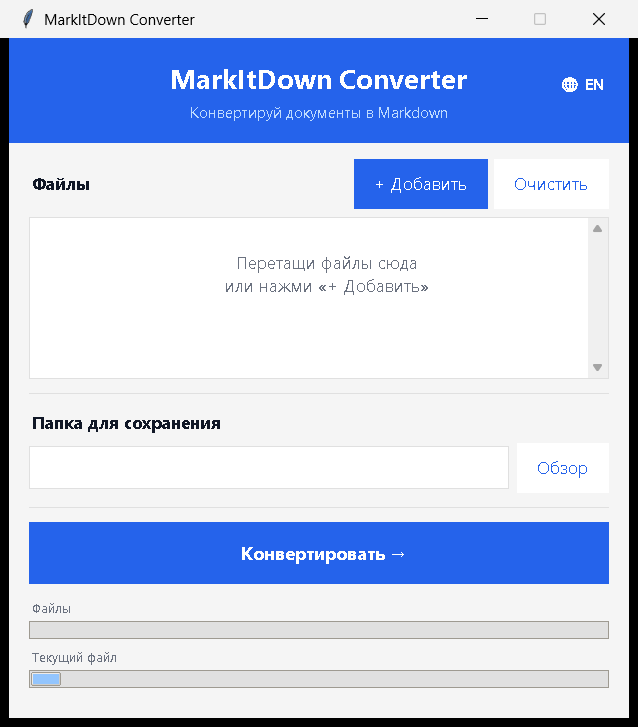
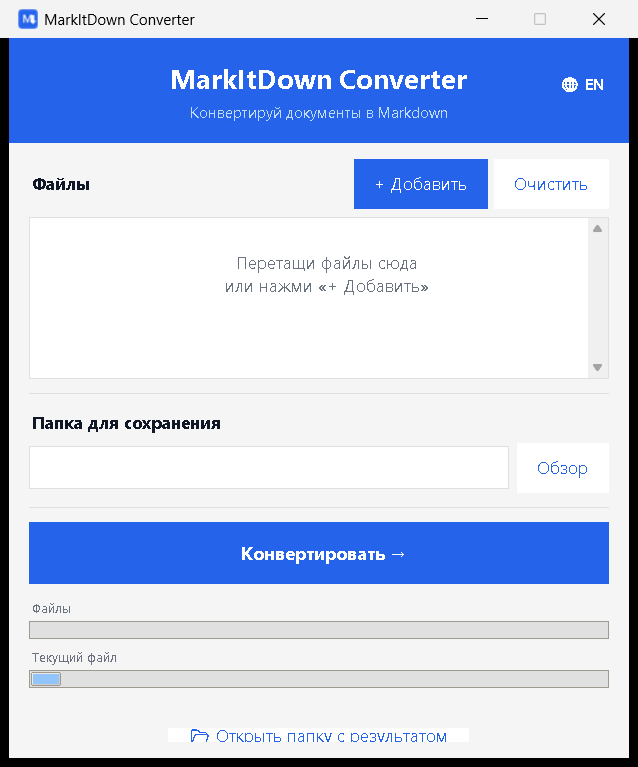
feat: иконка приложения + кнопка «Открыть папку с результатом» + запоминание папки
- assets/icon.ico (стиль Markdown «M↓»), подключена к .exe и окну
- кнопка открытия папки результата (os.startfile)
- последняя выбранная папка и язык сохраняются в ~/.markitdown_converter.json
- build-скрипты собирают с иконкой; обновлён скриншот в README

diff --git a/src/app.py b/src/app.py
@@ -77,6 +77,7 @@ TR = {
         "ft_supported":  "Поддерживаемые файлы",
         "ft_all":        "Все файлы",
         "lang_btn":      "EN",
+        "open_folder":   "📂 Открыть папку с результатом",
     },
     "en": {
         "subtitle":      "Convert documents to Markdown",
@@ -101,30 +102,49 @@ TR = {
         "ft_supported":  "Supported files",
         "ft_all":        "All files",
         "lang_btn":      "RU",
+        "open_folder":   "📂 Open output folder",
     },
 }
 
 CONFIG_PATH = Path.home() / ".markitdown_converter.json"
 
 
-def load_lang() -> str:
+def load_config() -> dict:
     try:
-        lang = json.loads(CONFIG_PATH.read_text(encoding="utf-8")).get("lang")
-        if lang in TR:
-            return lang
+        d = json.loads(CONFIG_PATH.read_text(encoding="utf-8"))
+        return d if isinstance(d, dict) else {}
+    except Exception:
+        return {}
+
+
+_CFG = load_config()
+
+
+def save_config() -> None:
+    """Сохранить язык и последнюю выбранную папку между запусками."""
+    try:
+        data = {"lang": LANG}
+        try:
+            data["out"] = output_var.get()
+        except Exception:
+            pass
+        CONFIG_PATH.write_text(json.dumps(data), encoding="utf-8")
     except Exception:
         pass
-    return "ru"
 
 
-def save_lang() -> None:
-    try:
-        CONFIG_PATH.write_text(json.dumps({"lang": LANG}), encoding="utf-8")
-    except Exception:
-        pass
+def icon_path():
+    """Путь к иконке — работает и из исходников, и из PyInstaller-сборки."""
+    if hasattr(sys, "_MEIPASS"):
+        p = os.path.join(sys._MEIPASS, "icon.ico")
+    elif "__file__" in globals():
+        p = os.path.join(os.path.dirname(os.path.abspath(__file__)), "..", "assets", "icon.ico")
+    else:
+        return None
+    return p if os.path.exists(p) else None
 
 
-LANG = load_lang()
+LANG = _CFG.get("lang") if _CFG.get("lang") in TR else "ru"
 
 
 def t(key: str, **kw) -> str:
@@ -258,12 +278,24 @@ def pick_output():
     folder = filedialog.askdirectory(title=t("dlg_out"))
     if folder:
         output_var.set(folder)
+        save_config()
+
+
+def open_output():
+    out = output_var.get()
+    if out and os.path.isdir(out):
+        try:
+            os.startfile(out)
+        except Exception:
+            pass
+    else:
+        status_lbl.config(text=t("need_out"), fg=DANGER)
 
 
 def toggle_lang():
     global LANG
     LANG = "en" if LANG == "ru" else "ru"
-    save_lang()
+    save_config()
     apply_language()
 
 
@@ -279,6 +311,7 @@ def apply_language():
     prog_files_lbl.config(text=t("prog_files"))
     cur_file_lbl.config(text=t("cur_file"))
     lang_btn.config(text="🌐 " + t("lang_btn"))
+    open_btn.config(text=t("open_folder"))
     status_lbl.config(text="")
     refresh_list()
 
@@ -350,7 +383,14 @@ root = TkinterDnD.Tk()
 root.title("MarkItDown Converter")
 root.configure(bg=BG)
 root.resizable(False, False)
-root.geometry("620x680")
+root.geometry("620x720")
+
+_ICON = icon_path()
+if _ICON:
+    try:
+        root.iconbitmap(_ICON)
+    except Exception:
+        pass
 
 # Шапка
 header = tk.Frame(root, bg=PRIMARY, pady=18)
@@ -419,6 +459,9 @@ out_title_lbl.pack(anchor="w")
 out_row = tk.Frame(body, bg=BG)
 out_row.pack(fill="x", pady=(6, 0))
 output_var = tk.StringVar()
+_saved_out = _CFG.get("out", "")
+if _saved_out and os.path.isdir(_saved_out):
+    output_var.set(_saved_out)
 tk.Entry(out_row, textvariable=output_var, font=("Segoe UI", 10),
          relief="flat", bg=SURFACE,
          highlightbackground=BORDER, highlightthickness=1).pack(
@@ -465,5 +508,8 @@ file_progress.pack(fill="x", pady=(2, 4))
 
 status_lbl = tk.Label(body, text="", bg=BG, fg=SUBTEXT, font=("Segoe UI", 9))
 status_lbl.pack()
+
+open_btn = make_btn(body, t("open_folder"), open_output, "outline")
+open_btn.pack(pady=(10, 0))
 
 root.mainloop()